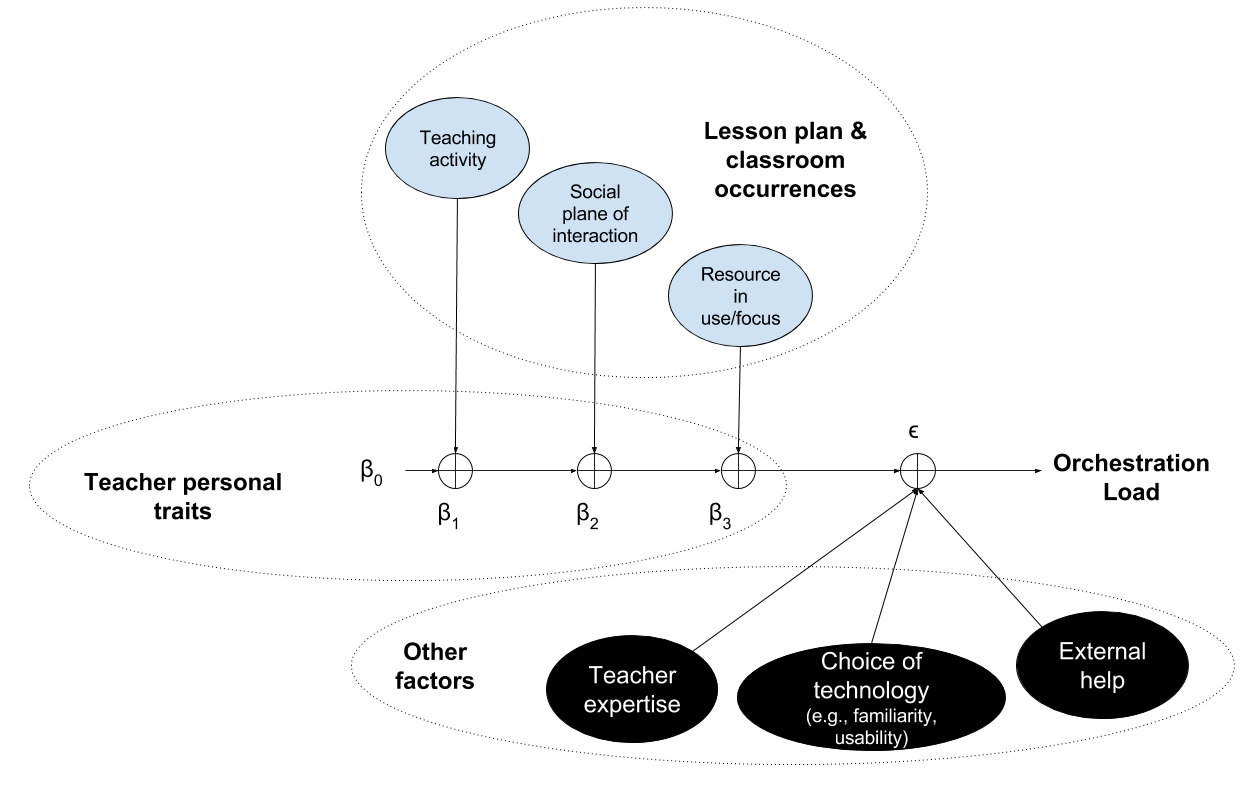
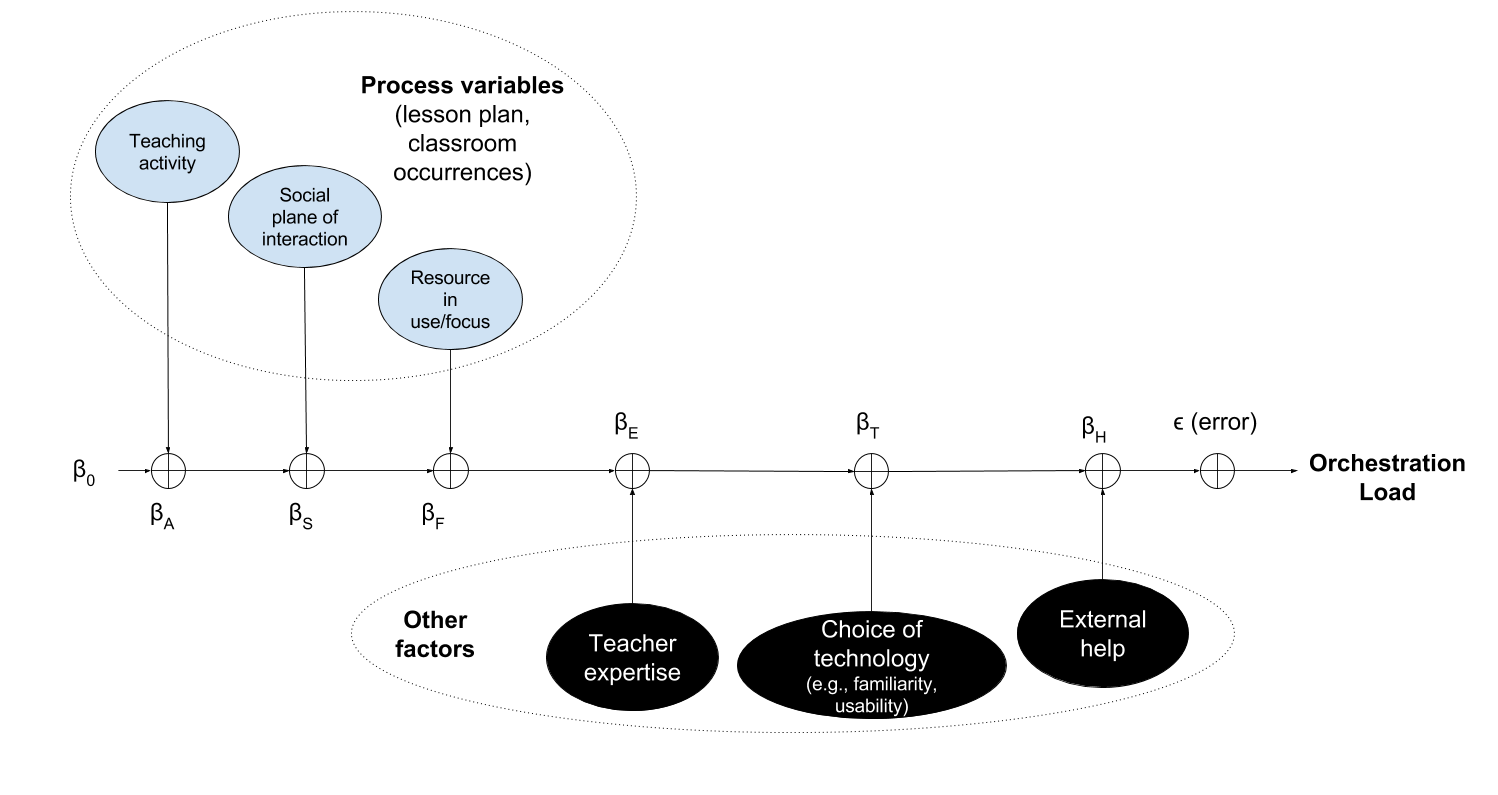
Revamping of the model after Lukasz's comments

diff --git a/manuscript/Prietoetal_OrchestrationLoadEyetracking.tex b/manuscript/Prietoetal_OrchestrationLoadEyetracking.tex
@@ -475,7 +475,7 @@ E-mail: see https://people.epfl.ch/luis.prieto
 %100-200 words
 %\boldmath
 %\blindtext[1]
-Orchestration load (the effort a teacher spends in coordinating the multiple activities and learning processes in an educational setting) has been proposed as a helpful construct in designing educational technologies that not only support learning, but also are usable at the classroom level. However, so far this notion has remained fuzzy, used solely in a high-level and abstract way. In order to ground orchestration load in empirical evidence and study it in a more systematic and detailed manner, we propose a model of factors that affect such load, and a measure for moment-to-moment orchestration load based on physiological data (concretely, mobile eye-tracking measures), along with behavioral data. This paper presents the results of applying this method to four exploratory case studies, where teachers orchestrated technology-enhanced face-to-face lessons with primary, secondary school and university students. The data from these studies provides a first validation of this method in different conditions, and illustrate how it can be used to understand the effect of different classroom factors on the orchestration load of a teacher, and to extract evidence-based insights about classroom orchestration with technology.
+Orchestration load (the effort a teacher spends in coordinating the multiple activities and learning processes in an educational setting) has been proposed as a helpful construct in designing educational technologies that not only support learning, but also are usable at the classroom level. However, so far this notion has remained fuzzy, used solely in a high-level and abstract way. In order to ground orchestration load in empirical evidence and study it in a more systematic and detailed manner, we propose a model of factors that affect such load, and a measure for moment-to-moment orchestration load based on physiological data (concretely, mobile eye-tracking measures), along with behavioral data. This paper presents the results of applying this method to four exploratory case studies, where teachers orchestrated technology-enhanced face-to-face lessons with primary, secondary school and university students. The data from these studies provides a first validation of this method in different conditions, illustrate how it can be used to understand the effect of different classroom factors on the orchestration load of a teacher, and to extract evidence-based insights about classroom orchestration with different technologies.
 \end{abstract}
 
 % Note that keywords are not normally used for peerreview papers.
@@ -545,7 +545,7 @@ Orchestration load, Eye-tracking, Cognitive load, Classroom studies.
 \item The term is used in a variety of meanings  \cite{Prieto2011}, but in learning technologies (LT) research, it specifically addresses the challenges of TEL practice in \textit{authentic} settings \cite{Roschelle2013}
 \item From the educational technology designer perspective, orchestration-related research denotes a focus on `usability at the classroom level' \cite{Dillenbourg2011}
 \item In this sense, LT researchers speak of `orchestration load' \cite{Dillenbourg2013,Cuendet2013,munoz2013sharing}, in analogy to cognitive load, a concept studied thoroughly in cognitive science, educational psychology and human-computer interaction \cite{sweller1994cognitive,oviatt2006human}
-\item However, in contrast with cognitive load (studied in controlled laboratory settings), orchestration load needs to be studied in authentic conditions. This has led to the term being used in high-level, abstract terms \cite{Dillenbourg2013,Cuendet2013}, seldom quantified except through ad-hoc proxies such as classroom workflow efficiency \cite{Alavi2012}
+\item However, in contrast with cognitive load (studied in controlled laboratory settings), face-to-face classroom orchestration load is hard to simulate accurately (i.e., may need to be studied in authentic conditions). This has led to the term being used in high-level, abstract terms \cite{Dillenbourg2013,Cuendet2013}, seldom quantified except through ad-hoc proxies such as classroom workflow efficiency \cite{Alavi2012}
 \item In our previous work we have explored a mixed quanti/quali approach to studying orchestration load in authentic settings in a more concrete and detailed manner \cite{Prieto2015ectel}. However, we still lack models of orchestration load, and reliable measures to help us compare different classroom situations in terms of orchestration load
 \item This paper presents one such model and measure, and their initial validation through several case studies in a variety of authentic educational settings, from primary school students using tabletop technologies to university students with laptops
 \item The rest of the paper is structured as follows...
@@ -658,12 +658,12 @@ Orchestration load, Eye-tracking, Cognitive load, Classroom studies.
 \item Face-to-face classroom management is important for learning outcomes but also is highly demanding (public space, multiple activities, immediacy, unpredictability) \cite{Doyle2006}
 \item Technology adds another layer of complexity to the classroom, which may explain reluctance for adoption of technology, and focus of LT research on 'orchestration' as 'classroom usability' \cite{Dillenbourg2011}
 \item By testing LTs in authentic classrooms and observing what works, researchers are starting to come up with guidelines of orchestrable technology \cite{Cuendet2013,Dillenbourg2013,Kharrufa2013,Kreitmayer2013}
-\item This approach to classroom usability reminds of the beginnings of usability studies \cite{Webusability} (focus on a few users finishing the task -- ``teacher heroes'' \cite{Dillenbourg2009b})
-\item Another parallel with usability: the use of cognitive load \cite{Paas2004}, or in this case `orchestration load' (``the effort necessary for the teacher -- and other actors -- to conduct learning activities'' \cite{Cuendet2013}) \cite{Dillenbourg2013}
+\item This approach to classroom usability reminds of the beginnings of usability studies \cite{Webusability} (focus on a few users finishing the task -- cf. notion of ``teacher heroes'' \cite{Dillenbourg2009b})
+\item Another parallel with usability: the use of cognitive load \cite{Paas2004}, or in this case `orchestration load' \cite{Dillenbourg2013} (``the effort necessary for the teacher -- and other actors -- to conduct learning activities'' \cite{Cuendet2013})
 \item To advance (classroom) usability beyond this artisanal/observational approach, usable (classroom) computer systems require 1) focus on users; 2) iterative design and testing; and 3) empirical measurement of usage \cite{Gould1985}
 \item The first two are already a part of much of LT research. But the third one is made difficult by the simultaneity and immediacy of face-to-face classroom activities. We need empirical evidence of how the orchestration process unfolds!
-\item To do this, we could use the wealth of methods in psychology and HCI to measure cognitive load \cite{Brunken2003} -- as long as we stay within \textit{authentic} educational settings (inherent to classroom orchestration \cite{Roschelle2013})
-\item No single method is accepted as valid for every task, and measures are often taken in controlled lab conditions, with simple tasks. Given this lack of control, the triangulation of different methods might be needed. An example is \cite{Buettner2013}, which used four different eye-tracking measurements to track cognitive load in a learning task.
+\item To do this, we could use/adapt the wealth of methods in psychology and HCI to measure cognitive load \cite{Brunken2003} -- as long as we stay within \textit{authentic} educational setting constraints (inherent to classroom orchestration \cite{Roschelle2013})
+\item No single method for measuring cognitive load is accepted as valid for every task, and measures are often taken in controlled lab conditions, with simple tasks. Given the classroom's typical lack of control, the triangulation of different methods might be needed. An example is \cite{Buettner2013}, which used four different eye-tracking measurements to track cognitive load in a learning task.
 \item In order to be able to measure orchestration empirically, we also need a model of orchestration load that help us start disentangling this multi-tasking, multi-target activity 
 \end{itemize}
 
@@ -671,21 +671,20 @@ Orchestration load, Eye-tracking, Cognitive load, Classroom studies.
 \label{sec:model}
 \begin{itemize}
 \item Classroom management/orchestration is assumed to be multi-tasking \cite{Doyle2006} in the sense of multiple constraints and concerns, but most often the orchestration is a \textit{sequence} of actions and decisions (put an example)
-\item From the definition of orchestration \cite{Dillenbourg2009}, we can see there are several \textit{process variables} that can affect the orchestration load at any point in time, but which may not be interesting for us when designing the technology: what is the current \textit{coordinating activity}, at which \textit{social plane} is the coordination happening, or what is the \textit{resource} on which the activity is focusing
-\item The load of each process variable may vary from teacher to teacher (experience, personality, training...). Hence, to have an idea of the load experienced by the teacher we have to take out somehow these influences
+\item From the definition of orchestration \cite{Dillenbourg2009}, we can see there are several \textit{process variables} that can affect the orchestration load at any point in time, but which may not be interesting for us when designing the technology: what is the current coordination \textit{activity} the teacher is performing, at which \textit{social plane} is the coordination happening, or what is the \textit{resource} (including objects and people) on which the activity is focusing
+\item The load that each process variable contributes may vary from teacher to teacher (personality, training...) and can be additionally modified/corrected due to other additional factors (teacher expertise, familiarity, external help...) (see Figure \ref{fig:model}). Hence, to have an idea of the load experienced by the teacher and enable meaningful comparison between two different classroom situations, we have to take into account the influence of such process variables (e.g., was there more explanation in one case than in the other? does this teacher experience more load while explaining than other activities?)
 \item Hence, as a first approximation to the instantaneous orchestration load, we could pose the following linear model:
-\begin{equation}
-OL = \beta_0 + \beta_1*A + \beta_2*S + \beta_3*F + \epsilon
+\begin{multline}
 \label{formOLScat}
-\end{equation}
-%TODO: Did we finally use a linear model or a GAM?
-\item ...where A (current coordination activity) can be Explanation, Monitoring, Questioning etc. (i.e., for an individual teacher, different activities may represent different amounts of load); similarly, S (social plane) can be Individual, Small group, Class-wide; and F (focus of activity) can be the different classroom elements on which the teacher may focus, including students (could be represented graphically as an orchestration graph, see \cite{prieto2011recurrent}). 
-\item If we transform the categorical variables in Formula \ref{formOLScat} into binary variables, we are left with:
+OL = \beta_0 + \beta_A*A + \beta_S*S + \beta_F*F \\ + \beta_E*E + \beta_T*T + \beta_H*H + \epsilon
+\end{multline}
+\item ...where A (current coordination activity) can be Explanation, Monitoring, Questioning etc. (i.e., for an individual teacher, different activities may represent different amounts of load); similarly, S (social plane) can be Individual, Small group, Class-wide; and F (focus of activity) can be the different classroom elements on which the teacher may focus, including students; etc. The process variables could be represented graphically as an orchestration graph, see \cite{prieto2011recurrent;dillenbourg2015orchestration}. 
+\item If we transform the categorical variables in Formula (\ref{formOLScat}) into binary variables, we are left with:
 \begin{multline}
 \label{formOLS}
-OL = \beta_0 + \beta_{11}*A_{expl} + \beta_{12}*A_{monit} + ... \\ + \beta_{21}*S_{indiv} + ... + \beta_{31}*F_{stud} + ... + \epsilon
+OL = \beta_0 + \beta_{A1}*A_{expl} + \beta_{A2}*A_{monit} + ... \\ + \beta_{S1}*S_{indiv} + ... + \beta_{F1}*F_{stud} + ... + \epsilon
 \end{multline}
-\item In this model, as designers of technology, we are interested on mostly on measuring the value of $\epsilon$ (the orchestration load of the situation once we take away the effect of the known process variables), which is the one that our technology might affect (the other being mostly due to the teacher peculiarities and the classroom occurrences out of our control)
+\item In this model, as designers of technology, we are interested mostly on measuring the correction factor on orchestration load due to our technologies (e.g., $\beta_T*T$), once we take away the effect of the known process variables (A, T, S), keeping the rest of the variables in the classroom situation as constant as possible.
 \end{itemize}
 
 
@@ -708,12 +707,12 @@ OL = \beta_0 + \beta_{11}*A_{expl} + \beta_{12}*A_{monit} + ... \\ + \beta_{21}*
 \begin{enumerate}
 \item Record eye-tracking of the session
 \item Aggregate the four eye-tracking measures related to cognitive load, in 10s episodes\footnote{10s was chosen because it is short enough to capture variations in eye-tracking measures, but long enough so that can be coded by a researcher in terms of behavior (what the teacher is doing) in a meaningful manner}
-\item Calculate the first Principal Component (in PCA) of the four eye-tracking signals. The score of each 10s episode along this dimension, we will call Orchestration Load Score (OLS, our best approximation to the OLS in formula \ref{formOLS}) %TODO: insert here the Lukasz transform, if applied
+\item Calculate the first Principal Component (in PCA) of the four eye-tracking signals. The score of each 10s episode along this dimension, we will call Orchestration Load Score (OLS, our best approximation to the OL in formula \ref{formOLS})\footnote{Since PCA can give two different solutions/scores with opposite signs, we should choose the solution which most resembles the weightings of Fig. \ref{fig:pca} (validated against the ground truth of our case studies).} 
 \item Select the "extreme load episodes"\footnote{This is done to keep the manual researcher effort under control, but the whole session videos could be video coded too.} of the session (the episodes where all four measures agree on being higher or lower than the session median), and code them manually in terms of the process variables (Activity, Social plane, Focus of gaze)
 \item Build statistical models of the orchestration load, e.g.,  similar to the linear one in formula \ref{formOLS} (see section \ref{sec:study4} to see an example)
 \end{enumerate}
 \end{itemize}
-%TODO: add footnote about the sign issue, and how we solve it by positive signs and/or similarity with our PCA loadings (internal product)
+
 
 
 \begin{figure}[!t]
@@ -730,8 +729,8 @@ OL = \beta_0 + \beta_{11}*A_{expl} + \beta_{12}*A_{monit} + ... \\ + \beta_{21}*
 \begin{itemize}
 \item The goals (research questions) of this paper are twofold:
 \begin{enumerate}
-\item Is the aforementioned PCA-based orchestration load score (OLS), and the proposed statistical models, able to discriminate the load of  substantially different situations in terms of orchestration load?
-\item Can the application of these measures and models provide us with insights about the orchestration load of a certain classroom situation?
+\item Is the aforementioned PCA-based orchestration load score (OLS), and the proposed statistical models, able to discriminate the load of substantially different situations in terms of orchestration load?
+\item Can the application of these measures and models provide us with insights about the orchestration load of different classroom situations?
 \end{enumerate}
 \item We have used the aforementioned approach and models for orchestration load in four case studies, spanning a total of 14 sessions
 orchestrated by four different teachers with actual students at different educational levels, from 11yrs old to university students (see Table \ref{tab:cases})
@@ -937,7 +936,7 @@ Focus: Teacher computer & -2.68 & 0.92 & -2.93 & 0.003** \\
 \item To validate whether the OLS is a good predictor for orchestration load in this context, we assume as a ground truth that the lessons orchestrated without an assistant represented a higher load (Load=1) than the ones orchestrated with the assistant (Load=0) -- at least, for the parts of the lesson where the assistant had a role 
 \item We then train a logistic regression model to try to predict the aforementioned ``ground truth'' using the known process variables (activity, social, focus -- coded from the video by a researcher) and the OLS
 \item As we can see in table \ref{tab:case3results}, once we take away the influence of the process variables, the OLS shows clear, adequate trends (positive coefficient), but is no longer a significant predictor of the assumed (binary) orchestration load ($p=0.13$). Furthermore, this model including the OLS explains little variance in the data (McFadden's pseudo-$R^2=0.05$) 
-\item This may be due to the fact that we take only (the model is trained with 163 samples, versus $~400$ samples in the previous studies). We probably would have needed more data to see trends more clearly 
+\item This may be due to the fact that we take only \textit{a portion} of the session, instead of whole sessions (the model is trained with 163 samples, versus $~400$ samples in the previous studies). We probably would have needed more data for OLS to detect the difference
 \end{itemize}
 
 \begin{table}[!t]
@@ -1037,9 +1036,9 @@ Focus: Teacher desk & 0.06 & 0.14 & 0.43 & 0.67\\
 
 \begin{itemize}
 \item The results from case studies 1, 2, 3 support the notion that OLS, obtained through the method presented in Section \ref{sec:measures}, provides a discriminant measure of teachers' cognitive load, obtainable in authentic classroom settings
-\item These results (sp. case 3) also show some of the limitations of the method -- a certain volume of data is needed for OLS to discriminate the load of different situations (e.g., several sessions, not just small parts of one)
+\item These results (sp. case 3) also show some of the limitations of the method -- a certain volume of data is needed for OLS to discriminate the load of different situations (e.g., several sessions, not just small parts of sessions)
 \item The OLS measure cannot be said to be generalizable yet to any classroom situation, but it has worked in a variety of settings -- and more semi-controlled comparative studies in a variety of settings with more teachers should be performed to continue validating it
-\item Are the situations really authentic (observers, ETs)? subjects did not complain/distract, and eyetrackers are becoming more discrete
+\item Are the situations really authentic (observers, ETs)? subjects did not complain and kids were not distracted after the initial minutes. Furthermore, eyetracker technology is becoming more discrete
 \item The method is still quite expensive in terms of equipment and effort, and requires quite a bit of researcher manual work... but this is changing as ETs become cheaper (not much accuracy needed). The behavioral coding of process variables can also be made cheaper with crowdsourcing (categories are quite simple to assess even for non-experts), and there is initial evidence that machine learning methods could automate this process \cite{prieto2016teaching}
 \item These process variables are not exhaustive, and the codes are not the last word -- further research can find other variables, and other ways of coding them that are more meaningful (generic or pedagogy-specific)
 \end{itemize}
